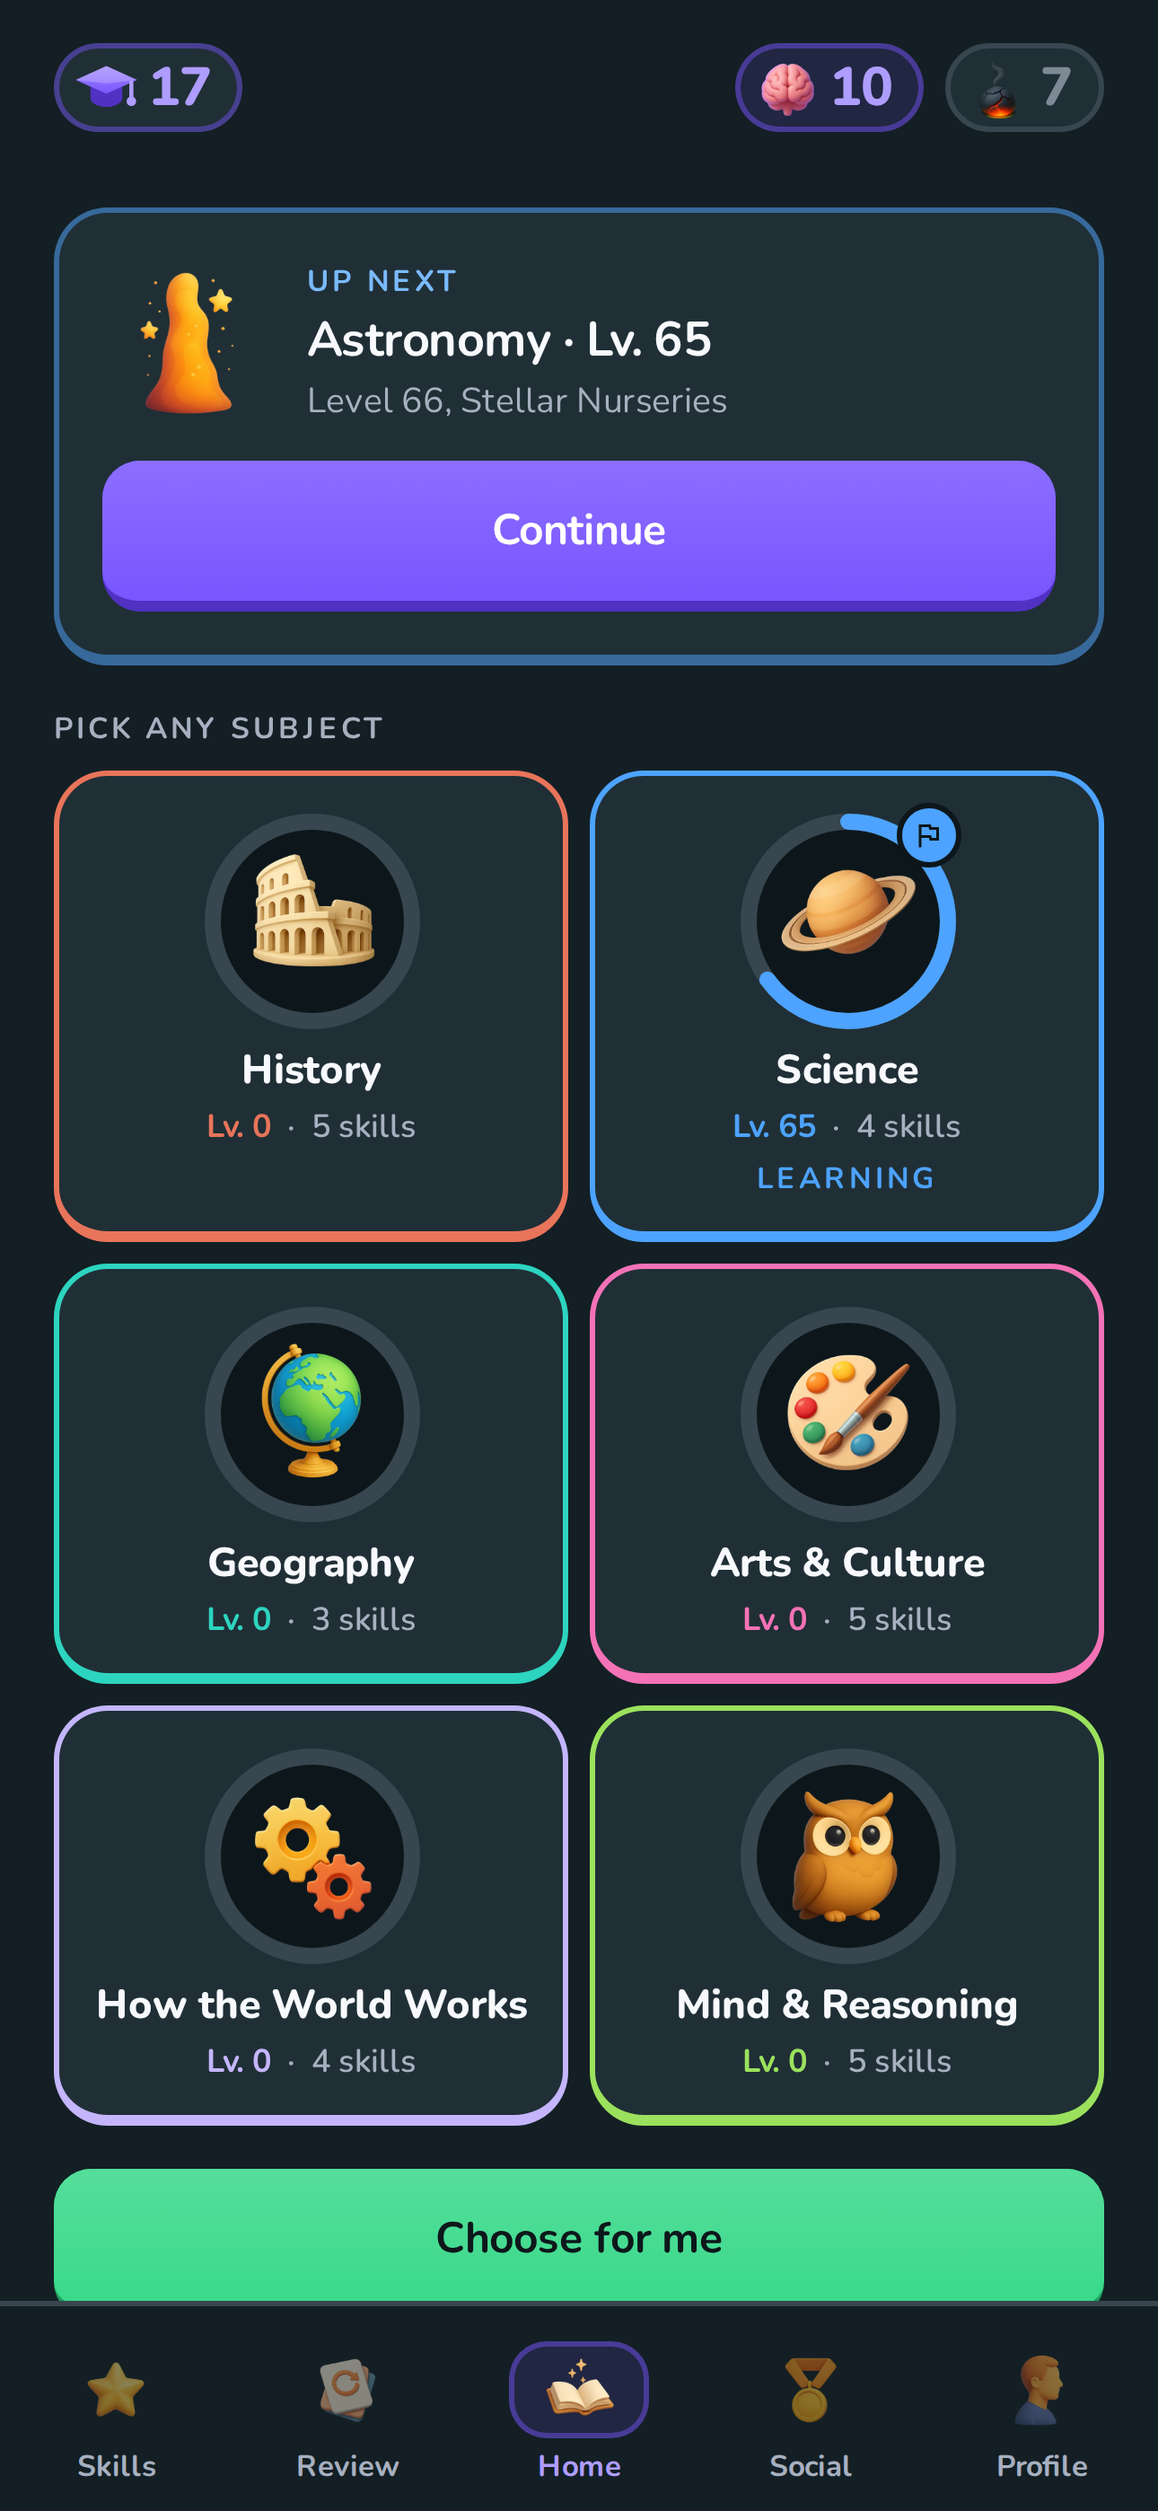
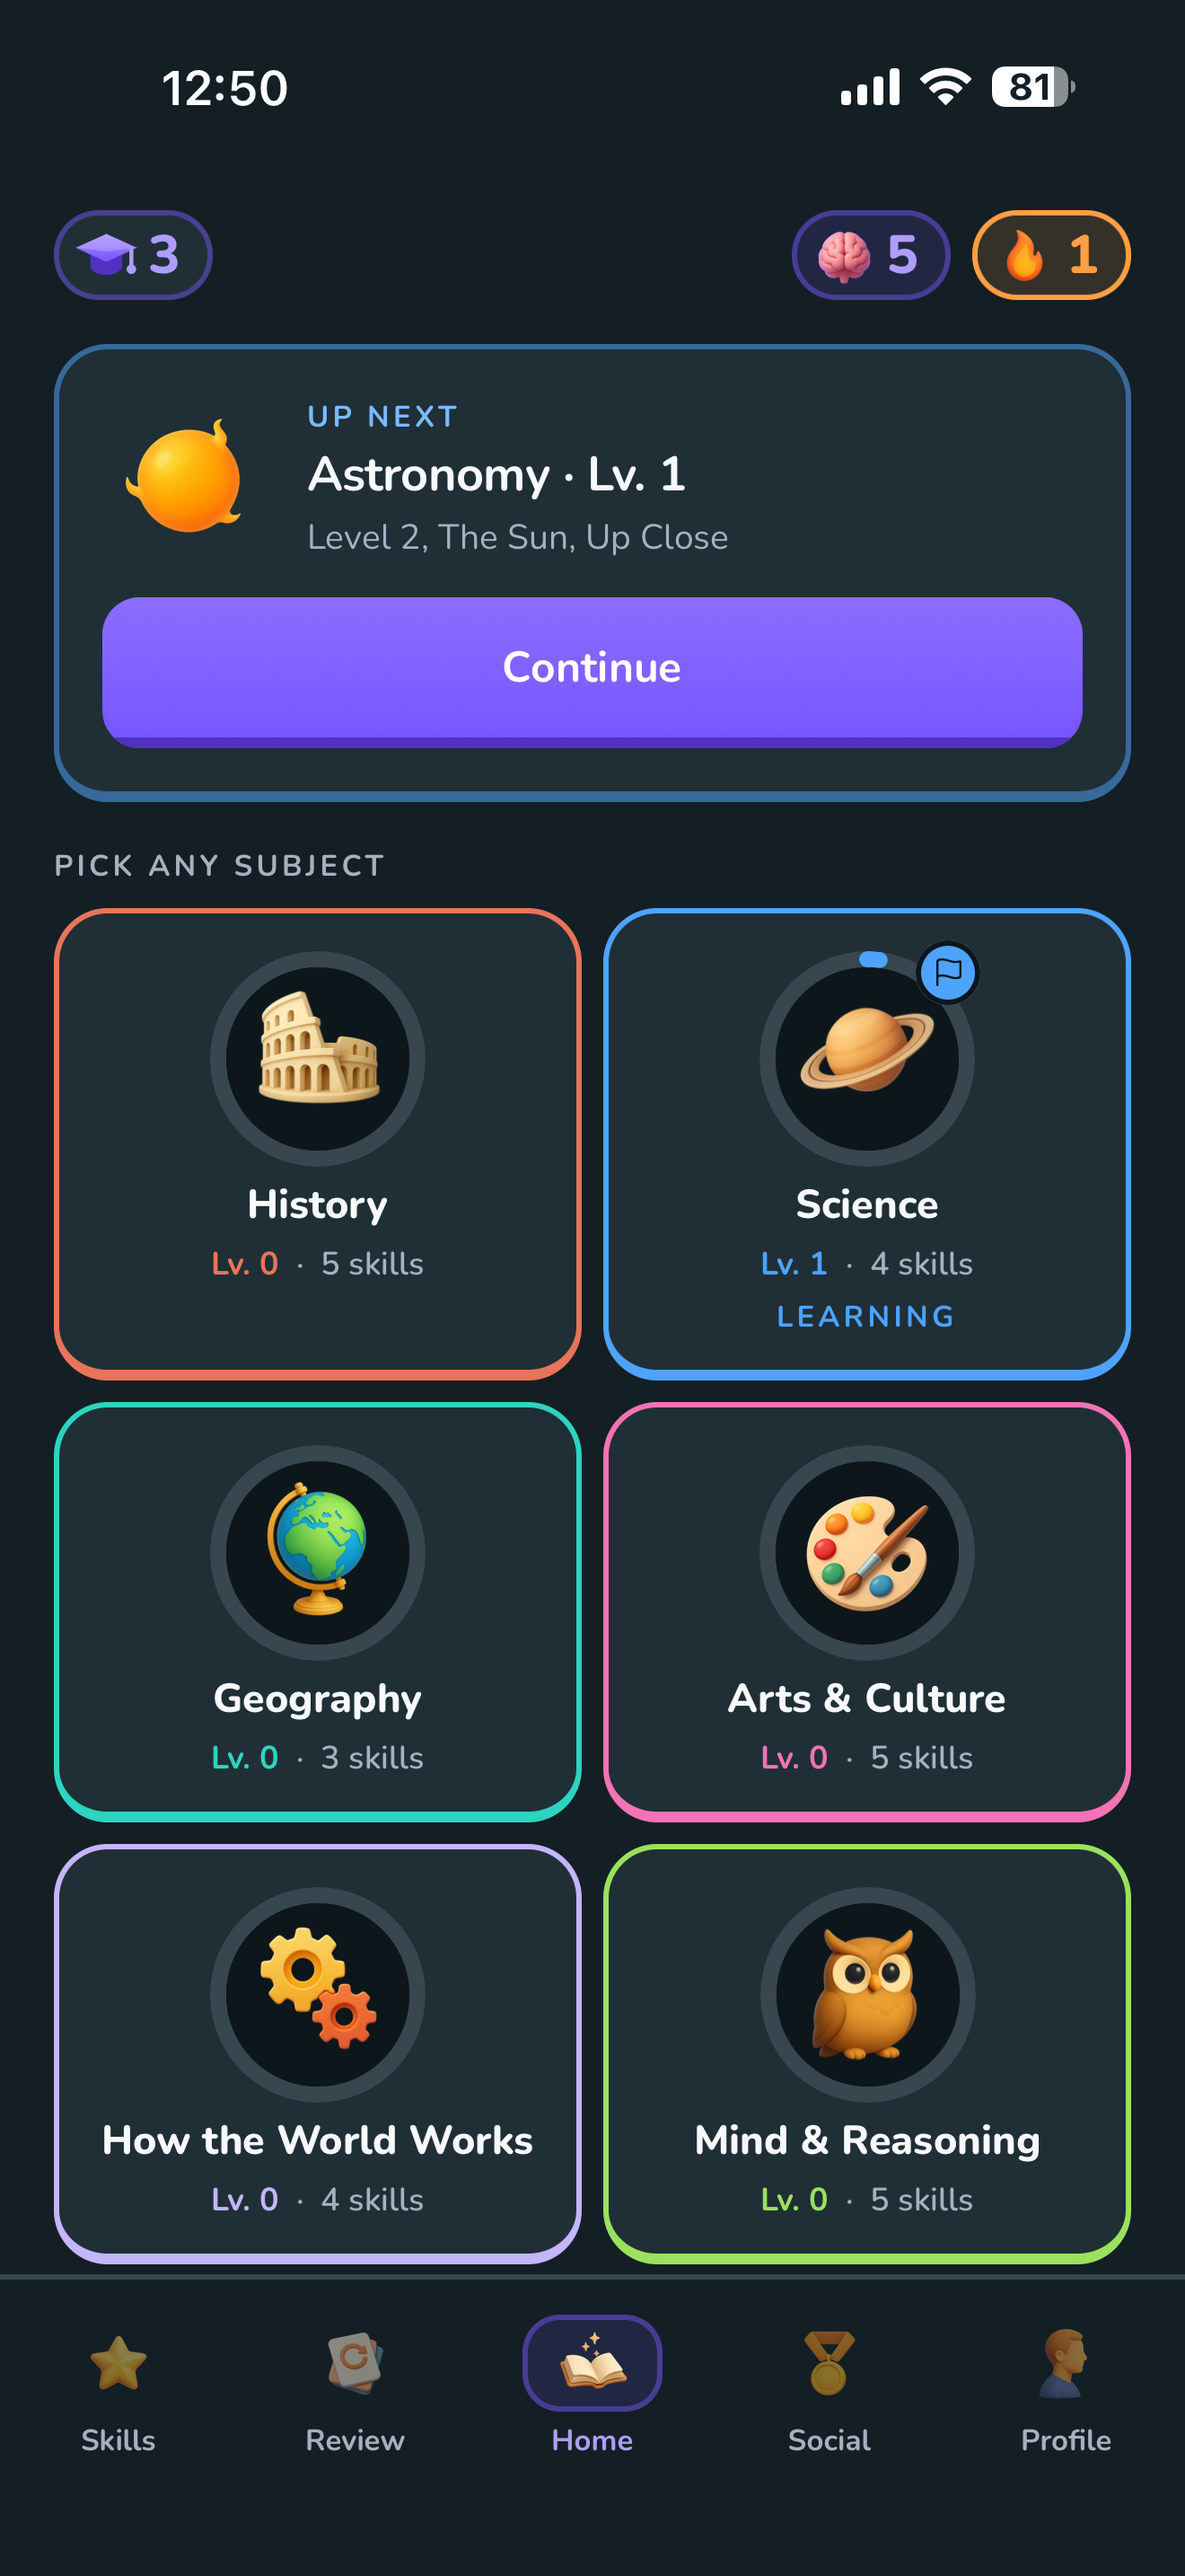
Store: the owner's iPhone screenshots as the App Store set
Eight screenshots the owner took on an iPhone with the TestFlight build,
at 1320 x 2868 (the 6.9" size), replace the web-made set, in upload
order: Home, the Astronomy map, Take another look, Level Complete,
Social, Profile, Brainpower used up and the Brainpower sheet.

Claude-Session: https://claude.ai/code/session_01EwSpp1ySrzExTB2LA7xjCv

diff --git a/brainscroll/docs/store-listing.md b/brainscroll/docs/store-listing.md
@@ -121,19 +121,18 @@ Use the App Store description above, with two changes:
 
 ## Screenshots
 
-**The iPhone set is made:** `store/app-store-iphone-6.9/`, nine PNGs at 1290 × 2796, which App Store Connect takes for the 6.9" display (and uses for the smaller iPhones). Upload them in their file order:
+**The iPhone set is made:** `store/app-store-iphone-6.9/`, eight PNGs at 1320 × 2868, taken by the owner on an iPhone with the TestFlight build (2026-10-09). That's the 6.9" display size, which App Store Connect also uses for the smaller iPhones. Upload them in their file order:
 
 1. Home: every subject, and what's up next.
-2. Astronomy's map, with a chapter's chest.
-3. A learning card with a Key idea.
-4. A missed question with "Take another look".
-5. Level Complete: XP, the streak, trophies earned and a level up.
-6. The profile: Knowledge Level, streak and league.
-7. The Trophies screen.
-8. Social: the league and friends.
-9. The league's standings.
+2. Astronomy's map.
+3. A missed fill-in-the-blank with "Take another look".
+4. Level Complete: a perfect level, its XP and a level up.
+5. Social: the league and this week with friends.
+6. The profile: the subject ring, Knowledge Level and league.
+7. Brainpower used up for the day, with Unlimited and ways to earn more.
+8. The Brainpower sheet.
 
-They're the real app with real content: a learner's first week, played by `e2e/store-shots.mjs` on a moved clock (Level 1 by hand, then each day the app preview's "Clear to the next chest" with every answer right and the chest opened), and one more level today with a miss. The league's other players are the preview's simulated learners, as in the app preview. To take them again after a design change: `SHOT_OUT=store/app-store-iphone-6.9 bash e2e/run.sh store-shots`.
+The league and the friends in 5 are the screenshot test learners; removing them at launch (`docs/release.md`) doesn't change the uploaded images. A learning card is the one core screen not in the set; take one on the phone (any card with a Key idea) if there's room for a ninth. The web-made set (`SHOT_OUT=store/app-store-iphone-6.9 bash e2e/run.sh store-shots`, 1290 × 2796) can still be made after a design change, but it replaces these.
 
 Google Play wants a phone set too (for example 1080 × 2160: `SHOT_W=360 SHOT_H=720` with `npm run screens`), once there's an Android build. No captions, so there's nothing to keep honest beyond the app itself.
 

diff --git a/brainscroll/CHANGELOG.md b/brainscroll/CHANGELOG.md
@@ -5,6 +5,7 @@ Concise record of completed work. Newest first. Product rules live in `docs/spec
 
 ## 2026-10-09: First TestFlight fixes
 
+- **The App Store screenshots are the owner's own**, taken on an iPhone with the TestFlight build: eight at 1320 × 2868 (the 6.9" size) in `store/app-store-iphone-6.9/`, in upload order, replacing the web-made set (`docs/store-listing.md`).
 - **Lesson screens that fit don't rubber-band** (owner, still seeing the page move while reordering on the first build): with no bounce when a card fits the screen, a drag on an order tile can't move the page even in the instant before the scroll lock lands. Long cards still scroll and bounce at the ends.
 - **Order questions hold the page still** (owner, on the first TestFlight build: "the whole screen scrolls while you're trying to drag things in place"). A tile now drags from anywhere on it, not just its grip, and the lesson stops scrolling the moment a finger is on the list; a tap still picks two tiles to swap. The instruction reads "Slide a tile up or down, or tap two to swap them."
 - **Deleting an account asks you to type DELETE** (owner: "shouldnt it say, type delete or something?"). The Delete permanently button stays off until the word is typed, in any case; Keep my account clears it.
